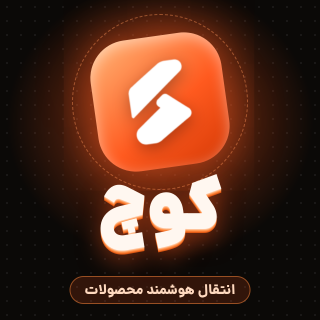
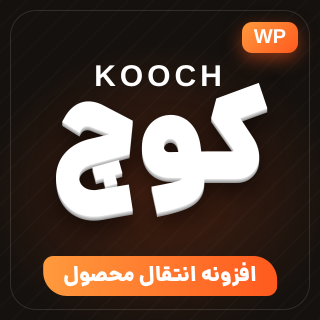
Kooch cover and square thumbnail rebuilt to RTL marketplace sample layout
Claude-Session: https://claude.ai/code/session_01HjGiyHhZHcoV6ExRpRRqKD

diff --git a/kooch-showcase/cover.html b/kooch-showcase/cover.html
@@ -1,0 +1,42 @@
+<!doctype html><html lang="fa" dir="rtl"><head><meta charset="utf-8"><title>کوچ | کاور</title><style>
+@font-face{font-family:Dana;src:url(DanaVF.ttf);font-weight:100 1000}
+*{box-sizing:border-box;margin:0;padding:0}
+body{background:#000;font-family:Dana,Tahoma,sans-serif}
+.c{width:1050px;height:520px;position:relative;overflow:hidden;background:
+ radial-gradient(600px 400px at 20% 50%,rgba(255,90,31,.18),transparent 70%),
+ repeating-linear-gradient(135deg,rgba(255,255,255,.018) 0 2px,transparent 2px 22px),#14110e}
+.frame{position:absolute;inset:18px;border:1.5px solid rgba(255,255,255,.10);border-radius:30px}
+.vec{position:absolute;left:10px;top:0;width:480px;height:520px}
+.r{position:absolute;right:56px;top:36px;width:500px;text-align:right}
+h1{font-size:150px;font-weight:950;line-height:1.05;color:#fff;letter-spacing:-3px;text-shadow:0 1px 0 #ddd,0 2px 0 #ccc,0 3px 0 #bbb,0 4px 0 #aaa,0 5px 0 #999,0 6px 0 #888,0 16px 30px rgba(0,0,0,.6)}
+.ban{display:inline-block;margin-top:-8px;background:linear-gradient(90deg,#ff9a3d,#ff5a1f);color:#fff;font-weight:900;font-size:27px;padding:6px 26px 9px;border-radius:12px 34px 12px 34px;box-shadow:0 10px 30px rgba(255,90,31,.45)}
+.en{display:flex;align-items:center;justify-content:flex-end;gap:12px;margin-top:12px;direction:ltr}
+.en .t{text-align:left}
+.en b{display:block;font-family:Arial Black,Arial,sans-serif;font-size:40px;font-weight:900;color:#fff;letter-spacing:1px;line-height:1}
+.en small{display:block;font-family:Arial,sans-serif;font-size:16px;font-weight:700;color:#ddd;letter-spacing:1.2px;margin-top:4px}
+.en small em{font-style:normal;color:#ff8a3d}
+.flag{width:96px;height:56px}
+ul{list-style:none;margin-top:12px;background:rgba(0,0,0,.35);border:1px solid rgba(255,255,255,.08);border-radius:18px;padding:12px 20px}
+li{color:#f2ece4;font-size:15.5px;font-weight:700;line-height:2;display:flex;align-items:center;gap:10px}
+li::before{content:"";width:12px;height:4px;border-radius:2px;background:#ff7a2d;flex:none}
+</style></head><body><div class="c"><div class="frame"></div><svg class="vec" viewBox="0 0 480 520" xmlns="http://www.w3.org/2000/svg">
+<defs><radialGradient id="gl"><stop offset="0" stop-color="#ff5a1f" stop-opacity=".75"/><stop offset="1" stop-color="#ff5a1f" stop-opacity="0"/></radialGradient></defs>
+<circle cx="230" cy="270" r="230" fill="url(#gl)"/>
+<circle cx="230" cy="290" r="200" fill="none" stroke="#fff" stroke-opacity=".06" stroke-width="2"/>
+<circle cx="230" cy="290" r="150" fill="none" stroke="#fff" stroke-opacity=".06" stroke-width="2"/>
+<ellipse cx="230" cy="420" rx="170" ry="44" fill="#000" fill-opacity=".45"/>
+<ellipse cx="230" cy="412" rx="150" ry="36" fill="none" stroke="#ff8a3d" stroke-opacity=".7" stroke-width="3"/>
+<ellipse cx="230" cy="412" rx="110" ry="25" fill="none" stroke="#ff8a3d" stroke-opacity=".35" stroke-width="2"/>
+<path d="M60 150 C 120 40, 330 30, 410 120" fill="none" stroke="#ffb27a" stroke-width="3" stroke-dasharray="4 12" stroke-linecap="round"/>
+<path d="M398 106 l14 16 l-20 6" fill="none" stroke="#ffb27a" stroke-width="3" stroke-linecap="round" stroke-linejoin="round"/>
+<g opacity="0.9"><polygon points="70,136 99.444,153.0 70,170 40.556,153.0" fill="#e9e3dc"/><polygon points="40.556,153.0 70,170 70,204 40.556,187.0" fill="#b9b0a5"/><polygon points="70,170 99.444,153.0 99.444,187.0 70,204" fill="#8f877c"/><polygon points="50.566959999999995,147.22 80.01096,164.22 89.43303999999999,158.78 59.98904,141.78" fill="#fff" fill-opacity=".35"/><polygon points="80.01096,164.22 89.43303999999999,158.78 89.43303999999999,175.78 80.01096,181.22" fill="#fff" fill-opacity=".22"/></g>
+<g opacity="0.95"><polygon points="150,66 172.516,79.0 150,92 127.48400000000001,79.0" fill="#ffc69c"/><polygon points="127.48400000000001,79.0 150,92 150,118 127.48400000000001,105.0" fill="#ff8a3d"/><polygon points="150,92 172.516,79.0 172.516,105.0 150,118" fill="#e0601e"/><polygon points="135.13943999999998,74.58 157.65544,87.58 164.86056000000002,83.42 142.34456,70.42" fill="#fff" fill-opacity=".35"/><polygon points="157.65544,87.58 164.86056000000002,83.42 164.86056000000002,96.42 157.65544,100.58" fill="#fff" fill-opacity=".22"/></g>
+<g opacity="1"><polygon points="330,50 355.98,65.0 330,80 304.02,65.0" fill="#ffb27a"/><polygon points="304.02,65.0 330,80 330,110 304.02,95.0" fill="#ff6a26"/><polygon points="330,80 355.98,65.0 355.98,95.0 330,110" fill="#d9480c"/><polygon points="312.8532,59.9 338.83320000000003,74.9 347.1468,70.1 321.16679999999997,55.1" fill="#fff" fill-opacity=".35"/><polygon points="338.83320000000003,74.9 347.1468,70.1 347.1468,85.1 338.83320000000003,89.9" fill="#fff" fill-opacity=".22"/></g>
+<g opacity="1"><polygon points="232,182 334.188,241.0 232,300 129.812,241.0" fill="#ffb27a"/><polygon points="129.812,241.0 232,300 232,418 129.812,359.0" fill="#ff6a26"/><polygon points="232,300 334.188,241.0 334.188,359.0 232,418" fill="#d9480c"/><polygon points="164.55592000000001,220.94 266.74392,279.94 299.44408,261.06 197.25608,202.06" fill="#fff" fill-opacity=".35"/><polygon points="266.74392,279.94 299.44408,261.06 299.44408,320.06 266.74392,338.94" fill="#fff" fill-opacity=".22"/><image href="kooch-icon.png" width="63.35656" height="63.35656" transform="matrix(0.866,0.5,0,1,149.22771999999998,263.42)" style="filter:brightness(0) invert(1)" opacity=".95"/></g>
+<circle cx="404" cy="230" r="5" fill="#ffd2b3"/><circle cx="60" cy="300" r="4" fill="#ffd2b3"/><circle cx="420" cy="340" r="3" fill="#ffd2b3"/>
+</svg>
+<div class="r"><h1>کوچ</h1><div class="ban">انتقال هوشمند محصولات به ووکامرس</div>
+<div class="en"><svg class="flag" viewBox="0 0 120 70"><defs><filter id="r"><feTurbulence baseFrequency=".9 .08" numOctaves="2" seed="3"/><feDisplacementMap in="SourceGraphic" scale="9"/></filter></defs>
+<g filter="url(#r)" transform="rotate(-8 60 35)"><rect x="6" y="10" width="108" height="16" fill="#239f40"/><rect x="6" y="26" width="108" height="16" fill="#fff"/><rect x="6" y="42" width="108" height="16" fill="#da0000"/></g>
+</svg><div class="t"><b>KOOCH</b><small>WOOCOMMERCE <em>PRODUCT IMPORTER</em></small></div></div>
+<ul><li>انتقال تکی و دستهای محصول با وارد کردن لینک</li><li>پیشنمایش، اجرای آزمایشی و بازگردانی هر انتقال</li><li>همگامسازی خودکار قیمت و موجودی</li><li>قیمتگذاری با درصد سود، نرخ ارز و نگهبان قیمت</li><li>پشتیبانی از دیجیکالا، تکنولایف و فروشگاههای ووکامرسی</li></ul></div></div></body></html>

diff --git a/kooch-showcase/square.html b/kooch-showcase/square.html
@@ -1,16 +1,11 @@
-<!doctype html><html lang="fa" dir="rtl"><head><meta charset="utf-8"><title>کوچ | بندانگشتی</title>
-<style>
+<!doctype html><html lang="fa" dir="rtl"><head><meta charset="utf-8"><title>کوچ | بندانگشتی</title><style>
 @font-face{font-family:Dana;src:url(DanaVF.ttf);font-weight:100 1000}
 *{box-sizing:border-box;margin:0;padding:0}
 body{background:#000;font-family:Dana,Tahoma,sans-serif}
-.s{width:320px;height:320px;position:relative;overflow:hidden;background:
- radial-gradient(220px 200px at 50% 38%,rgba(255,90,31,.55),transparent 70%),
- radial-gradient(rgba(255,255,255,.07) 1px,transparent 1.2px) 0 0/14px 14px,#0b0907;text-align:center}
-.ring{position:absolute;left:50%;top:14px;width:176px;height:176px;margin-left:-88px;border-radius:50%;border:1.5px dashed rgba(255,160,100,.45)}
-.core{position:absolute;left:50%;top:36px;width:132px;height:132px;margin-left:-66px;border-radius:38px;background:linear-gradient(145deg,#ffb87a,#ff5a1f 58%,#d63a06);display:grid;place-items:center;box-shadow:0 0 50px rgba(255,90,31,.8),inset 0 4px 14px rgba(255,255,255,.45);transform:rotate(-8deg)}
-.core img{width:84px;filter:brightness(0) invert(1) drop-shadow(0 5px 8px rgba(0,0,0,.3))}
-h1{position:absolute;top:176px;left:0;right:0;font-size:64px;font-weight:950;line-height:1.1;color:#fff7f0;text-shadow:0 1px 0 #ffc39a,0 2px 0 #ff9a55,0 3px 0 #f97a30,0 4px 0 #e05a15,0 10px 24px rgba(255,90,31,.5)}
-.sub{position:absolute;bottom:16px;left:50%;transform:translateX(-50%);white-space:nowrap;font-size:14px;font-weight:800;color:#ffd9bf;background:rgba(255,90,31,.16);border:1px solid rgba(255,138,61,.5);padding:3px 14px;border-radius:99px}
-</style></head><body>
-<div class="s"><div class="ring"></div><div class="core"><img src="kooch-icon.png" alt=""></div><h1>کوچ</h1><div class="sub">انتقال هوشمند محصولات</div></div>
-</body></html>
+.s{width:320px;height:320px;position:relative;overflow:hidden;background:radial-gradient(260px 220px at 50% 60%,rgba(255,90,31,.22),transparent 70%),repeating-linear-gradient(135deg,rgba(255,255,255,.02) 0 2px,transparent 2px 18px),#14110e;text-align:center}
+.frame{position:absolute;inset:10px;border:1.5px solid rgba(255,255,255,.12);border-radius:26px}
+.wp{position:absolute;top:22px;right:22px;background:linear-gradient(135deg,#ff9a3d,#ff5a1f);color:#fff;font-family:Arial Black,Arial,sans-serif;font-weight:900;font-size:20px;padding:4px 12px;border-radius:10px;box-shadow:0 6px 18px rgba(255,90,31,.5)}
+.en{position:absolute;top:60px;left:0;right:0;font-family:Arial Black,Arial,sans-serif;font-weight:900;font-size:30px;color:#fff;letter-spacing:4px}
+h1{position:absolute;top:86px;left:0;right:0;font-size:112px;font-weight:950;line-height:1.1;color:#fff;text-shadow:0 1px 0 #ddd,0 2px 0 #c6c6c6,0 3px 0 #b0b0b0,0 4px 0 #999,0 12px 24px rgba(0,0,0,.6)}
+.sub{position:absolute;bottom:24px;left:50%;transform:translateX(-50%);white-space:nowrap;background:linear-gradient(90deg,#ff9a3d,#ff5a1f);color:#fff;font-weight:900;font-size:21px;padding:4px 20px 6px;border-radius:10px 24px 10px 24px}
+</style></head><body><div class="s"><div class="frame"></div><div class="wp">WP</div><div class="en">KOOCH</div><h1>کوچ</h1><div class="sub">افزونه انتقال محصول</div></div></body></html>
